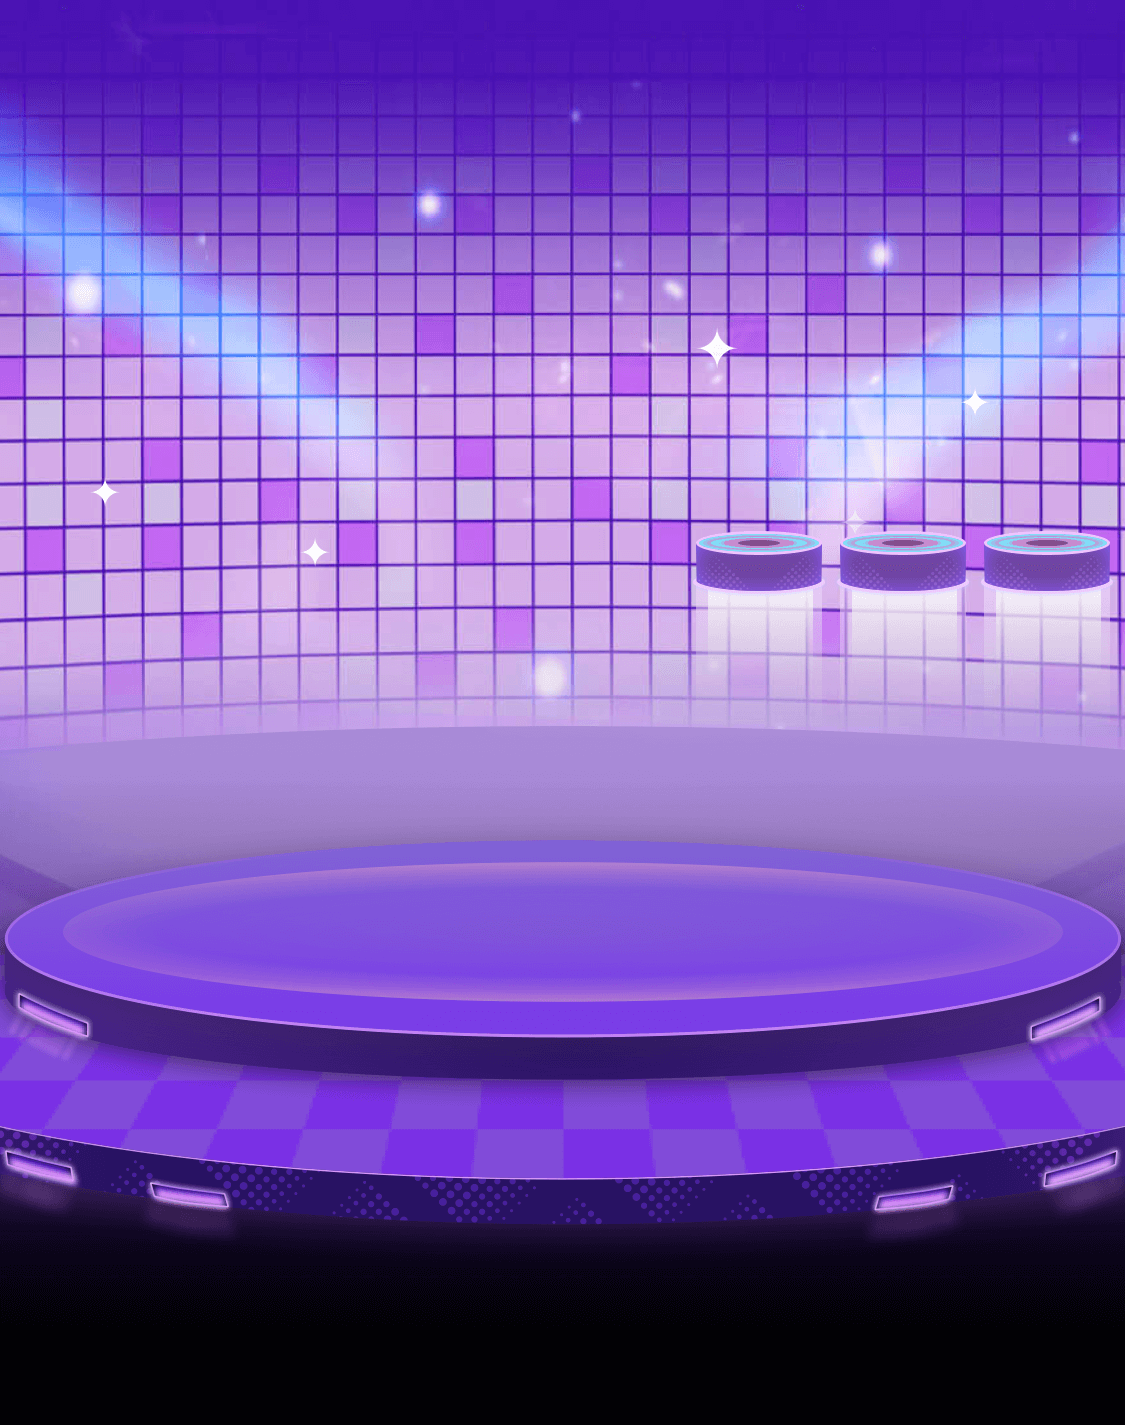
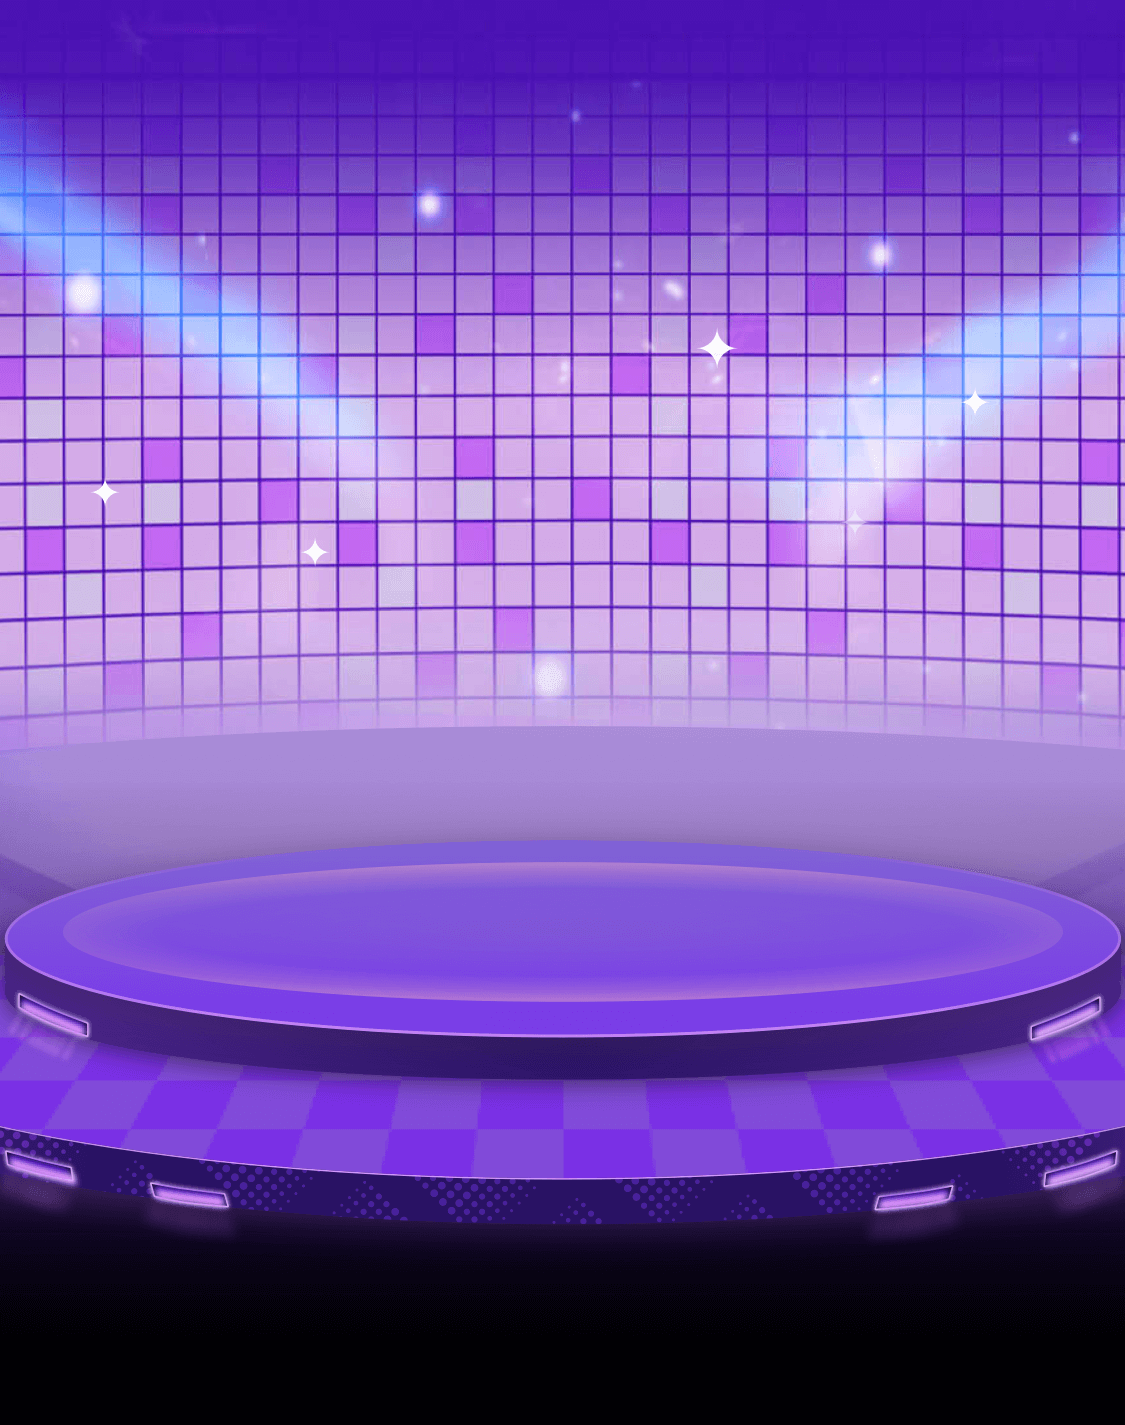
Update

Changed region(s): [[0.6222, 0.3705, 0.9956, 0.494]]

diff --git a/class/CCGameStep.cpp b/class/CCGameStep.cpp
@@ -27,6 +27,15 @@ void CCGameStep::initStep() {
 //    setTexture("bg_stage_step.png");
     setAnchorPoint(Point::ANCHOR_MIDDLE_BOTTOM);
 
+
+
+    auto _step_base = CCBaseSprite::create();
+    _step_base->setTexture("cocos/step_base.png");
+    _step_base->setAnchorPoint(Point::ANCHOR_MIDDLE_TOP);
+    _step_base->setPosition(Vec2(getContentSize().width / 2, 100 / _scale_factor));
+    this->addChild(_step_base, 1, _TAG_STEP_BASE);
+
+
     auto _step_place = Sprite::create();
     _step_place->setTexture("cocos/anim/wave_ani_1.png");
     _step_place->setAnchorPoint(Point::ANCHOR_MIDDLE);
@@ -44,14 +53,16 @@ void CCGameStep::initStep() {
 
 
 
-    auto _step_label = Label::createWithSystemFont("連麥", "Arial", 24 / _scale_factor);
+    auto _step_label = Label::createWithSystemFont("连麦", "Arial", 24 / _scale_factor);
     _step_label->setOverflow(Label::Overflow::CLAMP);
     _step_label->setAnchorPoint(Point::ANCHOR_MIDDLE);
     _step_label->setPosition(_step_place->getPosition());
     _step_label->setTextColor(Color4B(255,255,255,255));
     this->addChild(_step_label, 1, _TAG_STEP_LABEL);
 
+
     setUid("");
+    setBase("");
     setMute(false);
 }
 
@@ -115,6 +126,19 @@ void CCGameStep::setUid(const char *uid) {
 
 const char* CCGameStep::getUid() {
     return this->_uid.c_str();
+}
+
+void CCGameStep::setBase(const char *base) {
+
+    string _base_url(base);
+    if (auto _step_base = dynamic_cast<CCBaseSprite *>(this->getChildByTag(_TAG_STEP_BASE))) {
+
+        if (_base_url.empty()) {
+            _step_base->setTexture("cocos/step_base.png");
+        } else {
+            _step_base->loadTexture(_base_url.c_str(), "cocos/step_base.png");
+        }
+    }
 }
 
 bool CCGameStep::onTouchBegan(Touch *touch, Event *event) {

diff --git a/class/CCRoomDelegate.cpp b/class/CCRoomDelegate.cpp
@@ -407,6 +407,7 @@ void CCRoomDelegate::updateStageAvatars(const char* json) {
         const char *_url = cocostudio::DICTOOL->getStringValue_json(_value, "url", "");
         const char *_uid = cocostudio::DICTOOL->getStringValue_json(_value, "uid", "");
         const char *_name = cocostudio::DICTOOL->getStringValue_json(_value, "name", "");
+        const char *_base = cocostudio::DICTOOL->getStringValue_json(_value, "base", "");
 
         int _rare = cocostudio::DICTOOL->getIntValue_json(_value, "rare");
         int _guard = cocostudio::DICTOOL->getIntValue_json(_value, "guard");
@@ -442,6 +443,7 @@ void CCRoomDelegate::updateStageAvatars(const char* json) {
 
         auto _stageStep = _stageSteps.at(i);
         _stageStep->setUid(_uid);
+        _stageStep->setBase(_base);
         _stageStep->setMute(_mute);
     }
 

diff --git a/class/CCGameStep.h b/class/CCGameStep.h
@@ -18,7 +18,8 @@ private:
     static const int _TAG_WAVE_ANIM_ACTION = 1001;
     static const int _TAG_STEP_PLACE = 100;
     static const int _TAG_STEP_ADD = 101;
-    static const int _TAG_STEP_LABEL = 102;
+    static const int _TAG_STEP_BASE = 102;
+    static const int _TAG_STEP_LABEL = 103;
 
     static const int _CONTENT_SIZE_WIDTH = 125;
     static const int _CONTENT_SIZE_HEIGHT = 195;
@@ -39,6 +40,7 @@ public:
     void runVoiceWave();
     void setMute(bool mute);
     void setUid(const char *uid);
+    void setBase(const char *base);
     const char* getUid();
 
     void bindTargetNode(EventListener *listener) override;
